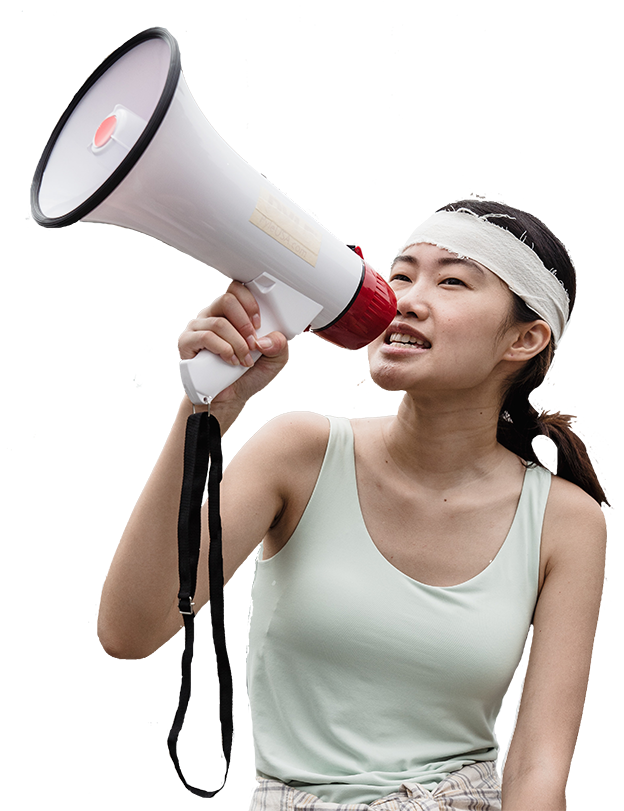
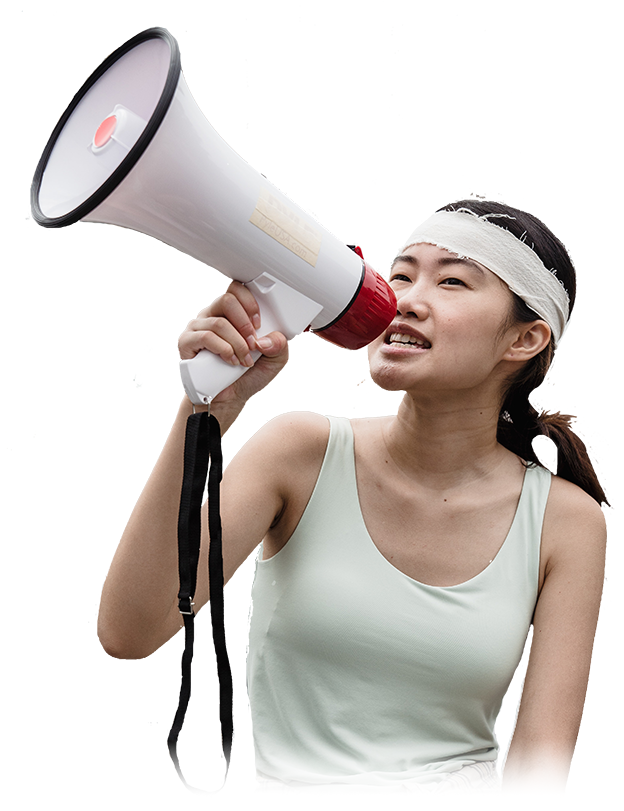
update image

Changed region(s): [[0.3958, 0.894, 0.9135, 1.0], [0.274, 0.9248, 0.3654, 0.9864]]

diff --git a/style.css b/style.css
@@ -138,12 +138,8 @@ button {
 }
 
 .who img {
-box-shadow: inset white;
+box-shadow: 50px 50px 50px 50px inset rgba(237, 237, 228, 1);
 }
-
-
-
-
 
 
 
